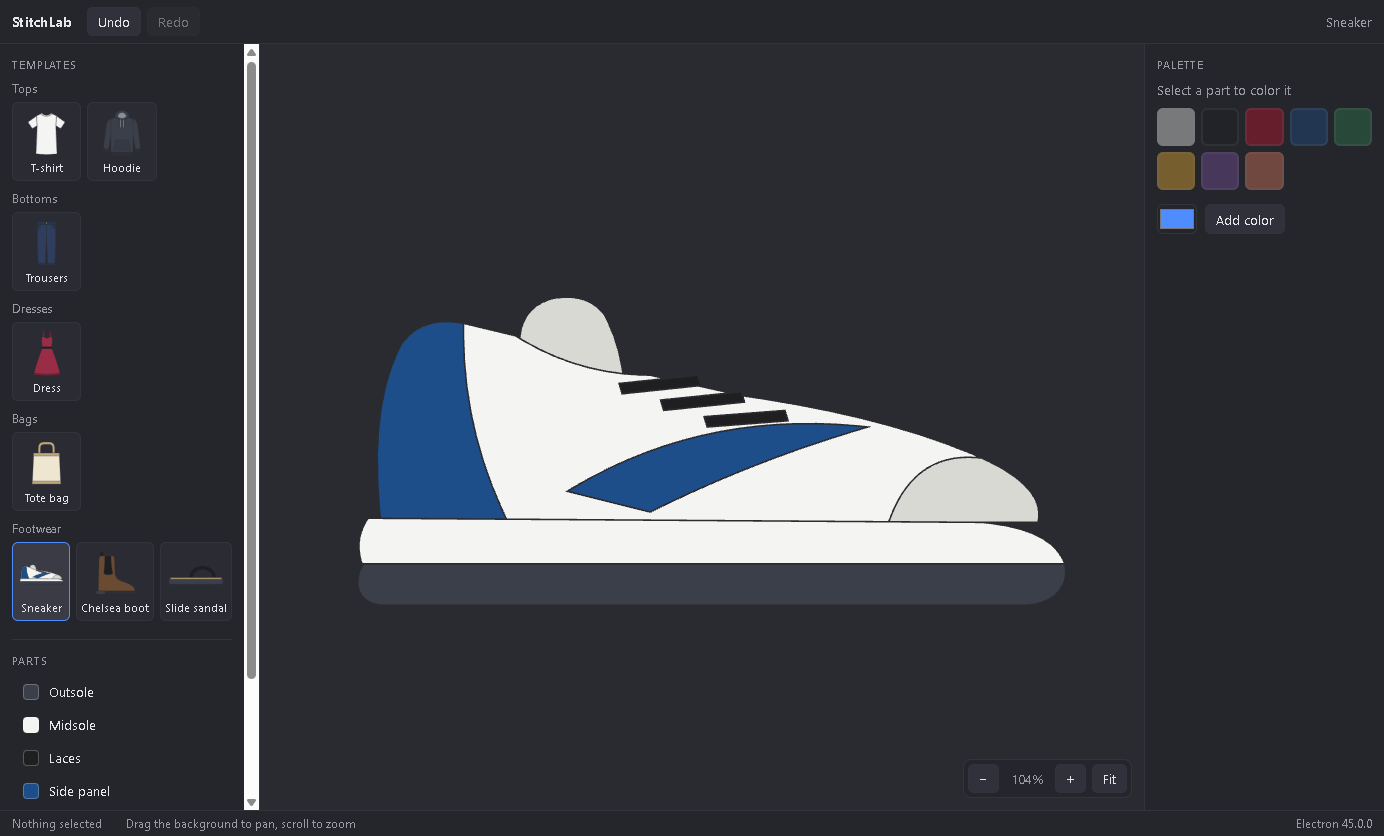
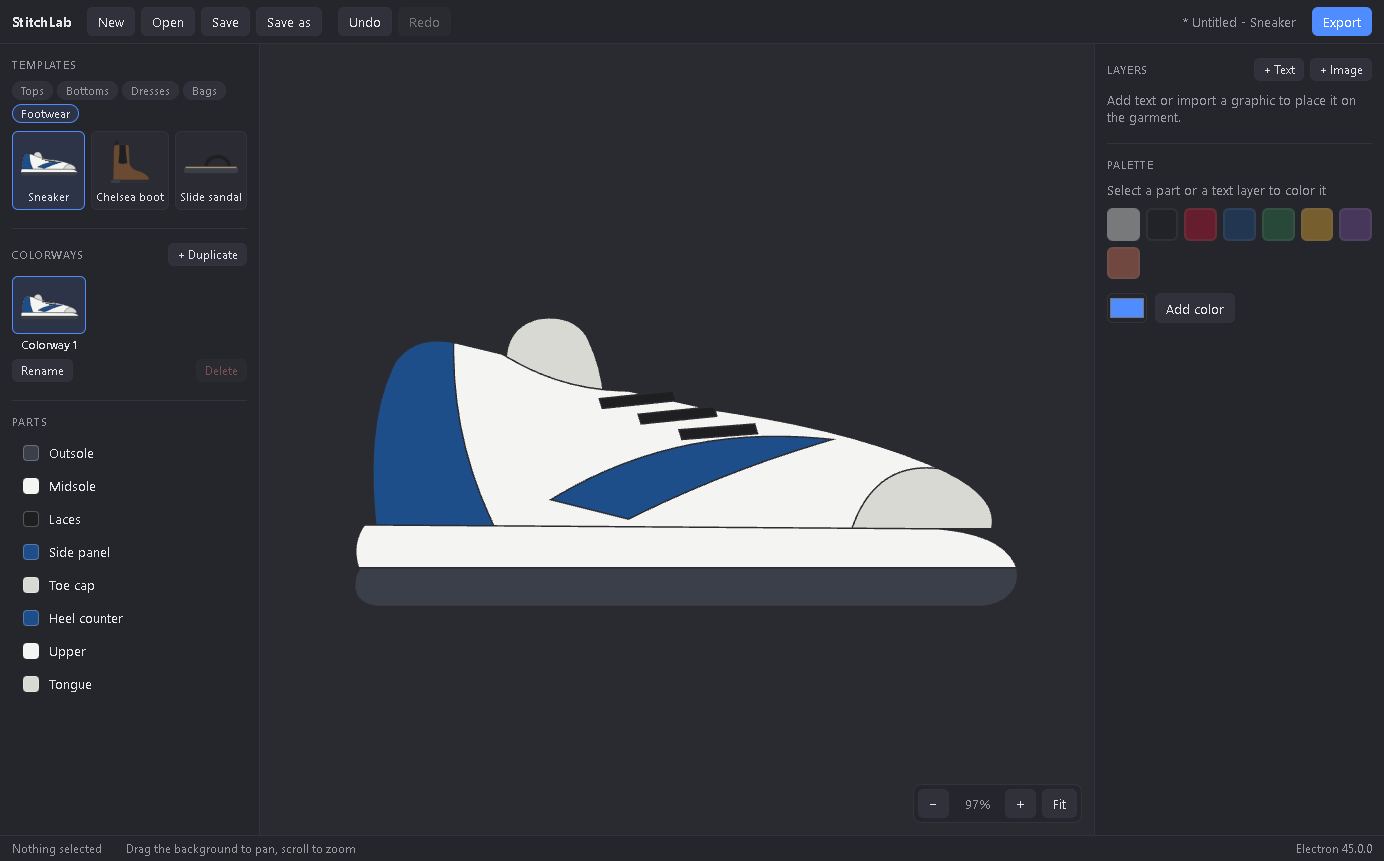
Show template categories as tabs
The left panel listed every template category expanded, which pushed the colorways and parts sections below the fold on a 900 px tall window. Categories are now tabs above a single template grid, so templates, colorways and all parts fit without scrolling. The tab opens on the current template's category and follows it when the template changes through undo, opening a project or starting a new one. The README screenshot shows the new layout.

diff --git a/src/renderer/src/panels/TemplatesPanel.tsx b/src/renderer/src/panels/TemplatesPanel.tsx
@@ -1,37 +1,53 @@
+import { useState } from 'react'
 import { useEditor } from '../document/store'
-import { CATEGORY_LABELS, TEMPLATE_CATEGORIES, templates, templateThumbnail } from '../templates'
+import { CATEGORY_LABELS, getTemplate, TEMPLATE_CATEGORIES, templates, templateThumbnail } from '../templates'
 
 const thumbnails = new Map(templates.map((t) => [t.id, templateThumbnail(t)]))
+const categories = TEMPLATE_CATEGORIES.filter((c) => templates.some((t) => t.category === c))
 
 export function TemplatesPanel() {
   const currentId = useEditor((s) => s.doc.templateId)
   const setTemplate = useEditor((s) => s.setTemplate)
+  const [shown, setShown] = useState({ templateId: currentId, category: getTemplate(currentId).category })
+
+  // Follow the current template when it changes from outside (open, undo, new project).
+  let category = shown.category
+  if (shown.templateId !== currentId) {
+    category = getTemplate(currentId).category
+    setShown({ templateId: currentId, category })
+  }
 
   return (
     <section className="panel-section">
       <h2>Templates</h2>
-      {TEMPLATE_CATEGORIES.map((category) => {
-        const items = templates.filter((t) => t.category === category)
-        if (items.length === 0) return null
-        return (
-          <div key={category} className="template-group">
-            <h3>{CATEGORY_LABELS[category]}</h3>
-            <div className="template-grid">
-              {items.map((t) => (
-                <button
-                  key={t.id}
-                  className={t.id === currentId ? 'template-card selected' : 'template-card'}
-                  onClick={() => setTemplate(t.id)}
-                  title={t.name}
-                >
-                  <img src={thumbnails.get(t.id)} alt="" draggable={false} />
-                  <span>{t.name}</span>
-                </button>
-              ))}
-            </div>
-          </div>
-        )
-      })}
+      <div className="category-tabs" role="tablist">
+        {categories.map((c) => (
+          <button
+            key={c}
+            role="tab"
+            aria-selected={c === category}
+            className={c === category ? 'selected' : ''}
+            onClick={() => setShown({ templateId: currentId, category: c })}
+          >
+            {CATEGORY_LABELS[c]}
+          </button>
+        ))}
+      </div>
+      <div className="template-grid">
+        {templates
+          .filter((t) => t.category === category)
+          .map((t) => (
+            <button
+              key={t.id}
+              className={t.id === currentId ? 'template-card selected' : 'template-card'}
+              onClick={() => setTemplate(t.id)}
+              title={t.name}
+            >
+              <img src={thumbnails.get(t.id)} alt="" draggable={false} />
+              <span>{t.name}</span>
+            </button>
+          ))}
+      </div>
     </section>
   )
 }

diff --git a/src/renderer/src/styles.css b/src/renderer/src/styles.css
@@ -218,15 +218,24 @@ button.primary:hover:not(:disabled) {
   border-top: 1px solid var(--border);
 }
 
-.template-group + .template-group {
-  margin-top: 10px;
+.category-tabs {
+  display: flex;
+  flex-wrap: wrap;
+  gap: 4px;
+  margin-bottom: 8px;
 }
 
-.template-group h3 {
-  margin: 0 0 6px;
-  font-size: 12px;
-  font-weight: 500;
+.category-tabs button {
+  padding: 2px 8px;
+  font-size: 11px;
+  border-radius: 999px;
   color: var(--muted);
+}
+
+.category-tabs button.selected {
+  border-color: var(--accent);
+  background: #2d3447;
+  color: inherit;
 }
 
 .template-grid {
